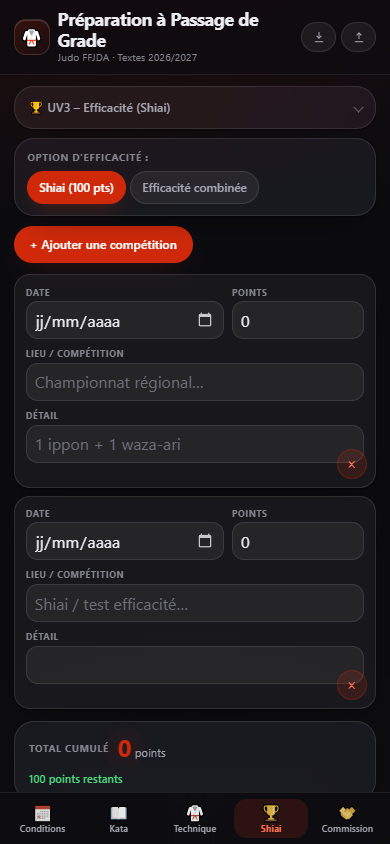
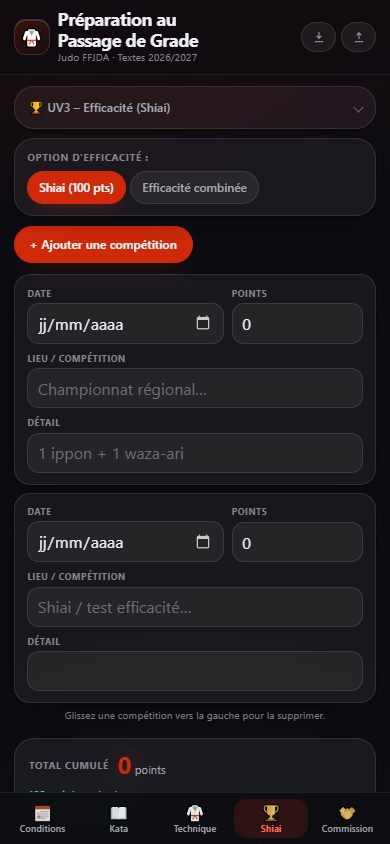
delete swipe

diff --git a/index.html b/index.html
@@ -27,7 +27,7 @@
   --r:20px;
 }
 *{box-sizing:border-box;margin:0;padding:0}
-html{-webkit-text-size-adjust:100%;background:#0b0b0f}
+html{-webkit-text-size-adjust:100%;background:#0b0b0f;overflow-x:hidden}
 body{
   font-family:system-ui,-apple-system,'Segoe UI',Roboto,'Helvetica Neue',sans-serif;
   font-size:16px;line-height:1.5;color:var(--text);
@@ -300,25 +300,26 @@ body:has(#tg-all:checked) #uv2-all{display:block}
 }
 .btn-add:hover{background:var(--accent-ink)}
 .btn-add:active{transform:scale(.98)}
-.shiai-table-wrap{margin:0 0 .8rem;border-radius:var(--r);overflow:auto}
-.shiai-table{width:100%;border-collapse:separate;border-spacing:0}
-.shiai-table th{
-  padding:.55rem .6rem;text-align:left;
-  font-size:.58rem;font-weight:700;text-transform:uppercase;letter-spacing:.07em;color:var(--faint);
-  background:rgba(255,255,255,.04);border-bottom:1px solid var(--border);
+.shiai-list{display:grid;gap:.5rem;margin:0 0 .3rem}
+.shiai-row{
+  position:relative;display:grid;gap:.5rem;
+  grid-template-columns:minmax(0,1.5fr) minmax(0,1fr);
+  grid-template-areas:"date pts" "lieu lieu" "note note";
+  padding:.7rem .8rem;border-radius:16px;
+  background:rgba(255,255,255,.055);border:1px solid var(--hair);box-shadow:var(--shadow);
+  touch-action:pan-y;
+  transition:transform .18s ease,background .18s,border-color .18s,opacity .2s;
 }
-.shiai-table td{padding:.45rem .5rem;min-width:0;border-bottom:1px solid rgba(255,255,255,.06);font-size:.78rem;vertical-align:middle}
-.shiai-table tr:last-child td{border-bottom:0}
-.shiai-table tr.row-ok td{background:rgba(74,222,128,.09)}
-.shiai-table tr.row-ok td:first-child{box-shadow:inset 3px 0 0 var(--green)}
-.shiai-table input{width:100%;min-height:38px;padding:.4rem .5rem}
-.shiai-table input[type="number"]{max-width:84px}
-.shiai-table button{
-  display:grid;place-items:center;width:30px;height:30px;border-radius:999px;
-  background:rgba(207,41,10,.16);color:var(--accent-text);
-  border:1px solid rgba(207,41,10,.3);font-size:.95rem;line-height:1;cursor:pointer;
-}
-.shiai-table button:hover{background:rgba(207,41,10,.26)}
+.shiai-row .f{display:grid;gap:.2rem;min-width:0}
+.shiai-row .f>span{font-size:.55rem;font-weight:700;text-transform:uppercase;letter-spacing:.07em;color:var(--faint)}
+.shiai-row .f-date{grid-area:date}
+.shiai-row .f-pts{grid-area:pts}
+.shiai-row .f-lieu{grid-area:lieu}
+.shiai-row .f-note{grid-area:note}
+.shiai-row input{min-width:0;touch-action:pan-y}
+.shiai-row.swiping{transition:none;background:rgba(207,41,10,.14);border-color:rgba(207,41,10,.38);user-select:none}
+.shiai-row.row-ok{background:linear-gradient(180deg,rgba(74,222,128,.16),rgba(255,255,255,.03));border-color:rgba(74,222,128,.35)}
+.swipe-hint{margin:.1rem 0 .9rem;font-size:.64rem;color:var(--faint);text-align:center}
 .shiai-warning{margin:0 0 .8rem;padding:.85rem;font-size:.76rem;color:#ffcf8a;border-color:rgba(255,170,60,.3);background:rgba(255,170,60,.12)}
 .shiai-warning strong{color:#ffb26b}
 
@@ -432,32 +433,6 @@ body:has(#dan-4:checked) .kata-card:not([data-kgrade="4"]){display:none}
    ============================================================ */
 @media (max-width:700px){
   input[type="date"],input[type="number"],input[type="text"],select,textarea{font-size:16px}
-  .shiai-table input[type="number"]{max-width:none}
-  .shiai-table-wrap{overflow:visible;border-radius:0}
-  .shiai-table{min-width:0;display:block}
-  .shiai-table thead{display:none}
-  .shiai-table tbody,.shiai-table tr,.shiai-table td{display:block;width:100%}
-  .shiai-table tr{
-    position:relative;display:grid;grid-template-columns:minmax(0,1.5fr) minmax(0,1fr);gap:.5rem;
-    grid-template-areas:"date pts" "lieu lieu" "note note";
-    padding:.65rem .7rem 1.5rem;margin-bottom:.5rem;
-    border-radius:16px;background:rgba(255,255,255,.055);
-    border:1px solid var(--hair);box-shadow:var(--shadow);
-  }
-  .shiai-table td{padding:0;border:0}
-  .shiai-table td::before{display:block;margin-bottom:.15rem;font-size:.55rem;font-weight:700;text-transform:uppercase;letter-spacing:.07em;color:var(--faint)}
-  .shiai-table td:nth-child(1){grid-area:date}
-  .shiai-table td:nth-child(2){grid-area:lieu}
-  .shiai-table td:nth-child(3){grid-area:pts}
-  .shiai-table td:nth-child(4){grid-area:note}
-  .shiai-table td:nth-child(1)::before{content:"Date"}
-  .shiai-table td:nth-child(2)::before{content:"Lieu / compétition"}
-  .shiai-table td:nth-child(3)::before{content:"Points"}
-  .shiai-table td:nth-child(4)::before{content:"Détail"}
-  .shiai-table td:nth-child(5){position:absolute;right:.55rem;bottom:.45rem;width:auto}
-  .shiai-table td:nth-child(5)::before{display:none}
-  .shiai-table tr.row-ok td:first-child{box-shadow:none}
-  .shiai-table tr.row-ok{background:linear-gradient(180deg,rgba(74,222,128,.16),rgba(255,255,255,.03));border-color:rgba(74,222,128,.35)}
   .shiai-total strong{font-size:1.5rem}
   .shiai-threshold{margin-left:0;width:100%;text-align:left}
 }
@@ -496,8 +471,7 @@ body:has(#dan-4:checked) .kata-card:not([data-kgrade="4"]){display:none}
   .cond-inputs{grid-template-columns:minmax(0,1fr) minmax(0,1fr);gap:.55rem .9rem}
   .cond-results{order:-1}
   .commission-fields{grid-template-columns:auto 1fr auto;align-items:end}
-  .shiai-table-wrap{background:var(--card);-webkit-backdrop-filter:var(--glass);backdrop-filter:var(--glass);border:1px solid var(--hair);box-shadow:var(--shadow)}
-  .shiai-table{min-width:560px}
+  .shiai-list{grid-template-columns:1fr 1fr}
 }
 @media (min-width:560px) and (max-width:819px){
   .grid{grid-template-columns:repeat(auto-fill,minmax(250px,1fr))}
@@ -696,6 +670,14 @@ if('serviceWorker' in navigator){ window.addEventListener('load', function(){ na
 </div>
 </details>
 
+<div class="progress-container">
+<div class="progress-header">
+<h3>📈 Suivi de la maîtrise UV2</h3>
+<span class="progress-text" id="progressText">0 / 0 techniques validées</span>
+</div>
+<div class="progress-track"><div class="progress-fill" id="progressFill"></div></div>
+</div>
+
 <div class="grid" id="grid">
 <!-- 1er DAN - NAGE -->
 <article class="card" data-grade="1" data-cat="nage" data-fam="koshi"><div class="card-head"><div><span class="badge dan1">1er Dan</span> <span class="badge b-nage">Nage-waza</span><h3>Haraï-goshi</h3><p class="sub">Koshi-waza</p></div><input type="checkbox" class="track" data-id="1-harai-goshi"></div></article>
@@ -801,14 +783,6 @@ if('serviceWorker' in navigator){ window.addEventListener('load', function(){ na
 </div>
 <p class="empty-hint" id="techEmpty" aria-live="polite" style="display:none">Aucune technique ne correspond à ces filtres.</p>
 
-<div class="progress-container">
-<div class="progress-header">
-<h3>📈 Suivi de la maîtrise UV2</h3>
-<span class="progress-text" id="progressText">0 / 0 techniques validées</span>
-</div>
-<div class="progress-track"><div class="progress-fill" id="progressFill"></div></div>
-</div>
-
 <div class="date-box">
 <label>Date de validation UV2 : <input type="date" id="techDate"></label>
 </div>
@@ -843,23 +817,21 @@ if('serviceWorker' in navigator){ window.addEventListener('load', function(){ na
 <button class="btn-add" id="addShiaiRow">+ Ajouter une compétition</button>
 </div>
 
-<div class="shiai-table-wrap">
-<table class="shiai-table">
-<thead>
-<tr>
-<th style="width:130px">Date</th>
-<th>Lieu / Compétition</th>
-<th style="width:90px">Points</th>
-<th style="width:180px">Détail (optionnel)</th>
-<th style="width:50px"></th>
-</tr>
-</thead>
-<tbody id="shiaiBody">
-<tr><td><input type="date" data-f="date" value=""></td><td><input type="text" data-f="lieu" value="" placeholder="Championnat régional…"></td><td><input type="number" min="0" step="1" data-f="pts" value="0"></td><td><input type="text" data-f="note" value="" placeholder="1 ippon + 1 waza-ari"></td><td><button class="del-row" title="Supprimer">×</button></td></tr>
-<tr><td><input type="date" data-f="date" value=""></td><td><input type="text" data-f="lieu" value="" placeholder="Shiai / test efficacité…"></td><td><input type="number" min="0" step="1" data-f="pts" value="0"></td><td><input type="text" data-f="note" value="" placeholder=""></td><td><button class="del-row" title="Supprimer">×</button></td></tr>
-</tbody>
-</table>
+<div class="shiai-list" id="shiaiBody">
+<div class="shiai-row">
+<div class="f f-date"><span>Date</span><input type="date" data-f="date" value=""></div>
+<div class="f f-pts"><span>Points</span><input type="number" min="0" step="1" data-f="pts" value="0"></div>
+<div class="f f-lieu"><span>Lieu / compétition</span><input type="text" data-f="lieu" value="" placeholder="Championnat régional…"></div>
+<div class="f f-note"><span>Détail</span><input type="text" data-f="note" value="" placeholder="1 ippon + 1 waza-ari"></div>
 </div>
+<div class="shiai-row">
+<div class="f f-date"><span>Date</span><input type="date" data-f="date" value=""></div>
+<div class="f f-pts"><span>Points</span><input type="number" min="0" step="1" data-f="pts" value="0"></div>
+<div class="f f-lieu"><span>Lieu / compétition</span><input type="text" data-f="lieu" value="" placeholder="Shiai / test efficacité…"></div>
+<div class="f f-note"><span>Détail</span><input type="text" data-f="note" value="" placeholder=""></div>
+</div>
+</div>
+<p class="swipe-hint">Glissez une compétition vers la gauche pour la supprimer.</p>
 
 <div class="shiai-total">
 <span class="shiai-label">Total cumulé</span>
@@ -981,9 +953,9 @@ if('serviceWorker' in navigator){ window.addEventListener('load', function(){ na
 
   if(cGrade) {
     cGrade.addEventListener('change', updateConditions);
-    cAnnee.addEventListener('input', updateConditions);
-    cDatePrev.addEventListener('change', updateConditions);
-    cDateExam.addEventListener('change', updateConditions);
+    cAnnee.addEventListener('input', function(){ store.set(key('cond','annee'), cAnnee.value); updateConditions(); });
+    cDatePrev.addEventListener('change', function(){ store.set(key('cond','datePrec'), cDatePrev.value); updateConditions(); });
+    cDateExam.addEventListener('change', function(){ store.set(key('cond','dateExam'), cDateExam.value); updateConditions(); });
   }
 
   /* --- GESTION DE LA BARRE DE MAÎTRISE UV2 (CUMULATIVE) --- */
@@ -1150,7 +1122,7 @@ if('serviceWorker' in navigator){ window.addEventListener('load', function(){ na
 
   function rowsToData(){
     var data = [];
-    var trs = shiaiBody.querySelectorAll('tr');
+    var trs = shiaiBody.querySelectorAll('.shiai-row');
     for(var i=0;i<trs.length;i++){
       var tr = trs[i];
       var d = tr.querySelector('input[data-f="date"]');
@@ -1202,16 +1174,16 @@ if('serviceWorker' in navigator){ window.addEventListener('load', function(){ na
   }
 
   function appendRow(data){
-    var tr = document.createElement('tr');
+    var row = document.createElement('div');
+    row.className = 'shiai-row';
     var safeLieu = String((data&&data.lieu)||'').replace(/"/g,'&quot;');
     var safeNote = String((data&&data.note)||'').replace(/"/g,'&quot;');
-    tr.innerHTML =
-      '<td><input type="date" data-f="date" value="'+((data&&data.date)||'')+'"></td>'+
-      '<td><input type="text" data-f="lieu" value="'+safeLieu+'" placeholder="Compétition…"></td>'+
-      '<td><input type="number" min="0" step="1" data-f="pts" value="'+((data&&Number(data.pts))||0)+'"></td>'+
-      '<td><input type="text" data-f="note" value="'+safeNote+'" placeholder="Détail"></td>'+
-      '<td><button class="del-row" title="Supprimer">×</button></td>';
-    shiaiBody.appendChild(tr);
+    row.innerHTML =
+      '<div class="f f-date"><span>Date</span><input type="date" data-f="date" value="'+((data&&data.date)||'')+'"></div>'+
+      '<div class="f f-pts"><span>Points</span><input type="number" min="0" step="1" data-f="pts" value="'+((data&&Number(data.pts))||0)+'"></div>'+
+      '<div class="f f-lieu"><span>Lieu / compétition</span><input type="text" data-f="lieu" value="'+safeLieu+'" placeholder="Compétition…"></div>'+
+      '<div class="f f-note"><span>Détail</span><input type="text" data-f="note" value="'+safeNote+'" placeholder="Détail"></div>';
+    shiaiBody.appendChild(row);
   }
 
   if(shiaiBody){
@@ -1221,7 +1193,7 @@ if('serviceWorker' in navigator){ window.addEventListener('load', function(){ na
       if(rawS) saved = JSON.parse(rawS) || [];
     } catch(e){ saved = []; }
     if(Array.isArray(saved) && saved.length > 0){
-      var trs = shiaiBody.querySelectorAll('tr');
+      var trs = shiaiBody.querySelectorAll('.shiai-row');
       for(var i=0;i<saved.length;i++){
         if(i < trs.length){
           var tr = trs[i];
@@ -1239,15 +1211,49 @@ if('serviceWorker' in navigator){ window.addEventListener('load', function(){ na
       var t = e.target;
       if(t && t.tagName === 'INPUT'){ saveShiai(); updateTotal(); }
     });
-    shiaiBody.addEventListener('click', function(e){
-      var t = e.target;
-      if(t && t.classList && t.classList.contains('del-row')){
-        var tr = t.closest('tr');
-        if(tr) tr.parentNode.removeChild(tr);
-        saveShiai();
-        updateTotal();
-      }
+
+    /* --- Suppression par glissement vers la gauche --- */
+    var swipe = null;
+    shiaiBody.addEventListener('pointerdown', function(e){
+      if(e.pointerType === 'mouse' && e.button !== 0) return;
+      var row = e.target.closest('.shiai-row');
+      if(!row) return;
+      if(e.target.closest('button,a')) return;
+      swipe = { row: row, id: e.pointerId, x: e.clientX, y: e.clientY, dx: 0, active: false };
     });
+    shiaiBody.addEventListener('pointermove', function(e){
+      if(!swipe || e.pointerId !== swipe.id) return;
+      var dx = e.clientX - swipe.x;
+      var dy = e.clientY - swipe.y;
+      if(!swipe.active){
+        if(Math.abs(dx) < 12 || Math.abs(dx) <= Math.abs(dy) || dx > 0) return;
+        swipe.active = true;
+        swipe.row.classList.add('swiping');
+        try { swipe.row.setPointerCapture(e.pointerId); } catch(err){}
+      }
+      swipe.dx = Math.min(0, dx);
+      swipe.row.style.transform = 'translateX(' + Math.max(swipe.dx, -150) + 'px)';
+    });
+    function endSwipe(e){
+      if(!swipe || e.pointerId !== swipe.id) return;
+      var st = swipe;
+      swipe = null;
+      if(!st.active) return;
+      st.row.classList.remove('swiping');
+      if(st.dx < -80){
+        st.row.style.transform = 'translateX(-120%)';
+        st.row.style.opacity = '0';
+        setTimeout(function(){
+          if(st.row.parentNode) st.row.parentNode.removeChild(st.row);
+          saveShiai();
+          updateTotal();
+        }, 220);
+      } else {
+        st.row.style.transform = '';
+      }
+    }
+    shiaiBody.addEventListener('pointerup', endSwipe);
+    shiaiBody.addEventListener('pointercancel', endSwipe);
   }
 
   if(btnAdd){
@@ -1269,11 +1275,15 @@ if('serviceWorker' in navigator){ window.addEventListener('load', function(){ na
   if(cGrade){
     var sg = store.get(key('cond','grade'));
     if(sg) cGrade.value = sg;
+    var sa = store.get(key('cond','annee')); if(sa) cAnnee.value = sa;
+    var sp = store.get(key('cond','datePrec')); if(sp) cDatePrev.value = sp;
+    var se = store.get(key('cond','dateExam')); if(se) cDateExam.value = se;
     cGrade.addEventListener('change', function(){
       store.set(key('cond','grade'), cGrade.value);
       applyGrade(cGrade.value);
     });
     applyGrade(cGrade.value);
+    updateConditions();
   }
 
   /* --- UV3 : MODE SHIAI / EFFICACITÉ COMBINÉE --- */
